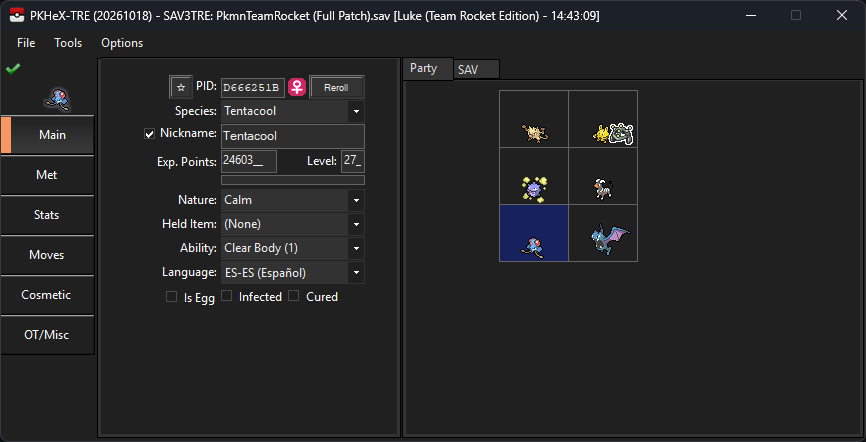
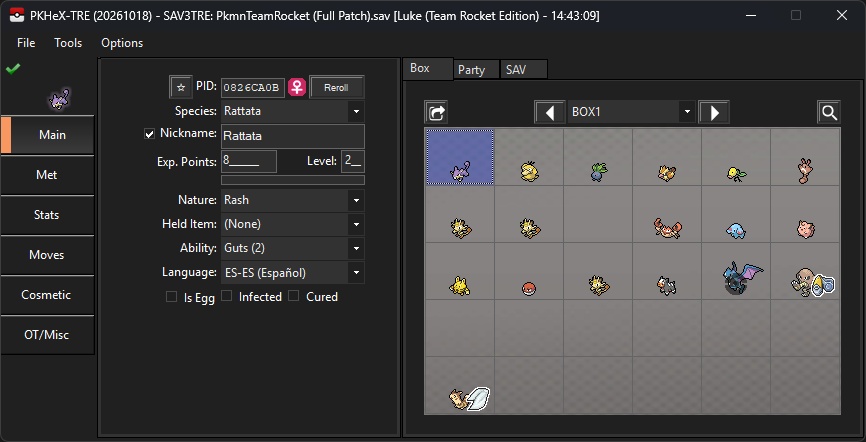
README: new screenshots (box, moves, stats, bag, trainer); changelog for v0.2
Claude-Session: https://claude.ai/code/session_01TztgYAMfMMz4JXAWAVfAYe

diff --git a/README.md b/README.md
@@ -13,7 +13,7 @@ A fork of [PKHeX](https://github.com/kwsch/PKHeX) that can read and write Team R
 [![License: GPL v3](https://img.shields.io/badge/license-GPLv3-blue)](LICENSE)
 [![Based on PKHeX](https://img.shields.io/badge/based%20on-PKHeX%2026.10.18-orange)](https://github.com/kwsch/PKHeX)
 
-<img src="docs/images/editor_main.png" alt="PKHeX-TRE editing a Tentacool from a Team Rocket Edition save" width="760">
+<img src="docs/images/editor_main.png" alt="PKHeX-TRE showing Box 1 of a Team Rocket Edition save" width="760">
 
 </div>
 
@@ -55,7 +55,13 @@ All species stats, learnsets, item, move and ability names, and map names are pu
 
 PKHeX's normal legality checker is switched off for these Pokémon, because its rules don't apply to a romhack. Only the move check runs.
 
-<img src="docs/images/editor_stats.png" alt="Stats tab" width="760">
+## Screenshots
+
+| Moves (checked against the hack's learnsets) | Stats |
+|---|---|
+| <img src="docs/images/editor_moves.png" alt="Moves tab" width="420"> | <img src="docs/images/editor_stats.png" alt="Stats tab" width="420"> |
+| **Bag: the hack's 8 pockets** | **Trainer Info** |
+| <img src="docs/images/editor_bag.png" alt="Inventory editor" width="300"> | <img src="docs/images/editor_trainer.png" alt="Trainer editor" width="380"> |
 
 ## Download
 

diff --git a/CHANGELOG.md b/CHANGELOG.md
@@ -1,8 +1,8 @@
 # Changelog
 
-## v0.1.0 (27 Nov 2026)
+## v0.2 (27 Nov 2026)
 
-First release, based on PKHeX 26.10.18.
+Based on PKHeX 26.10.18. Every feature was tested in the game.
 
 - Opens and saves Team Rocket Edition v3.0.6 (English) saves, with valid checksums.
 - Party and all 24 boxes (Box tab), plus box names.
